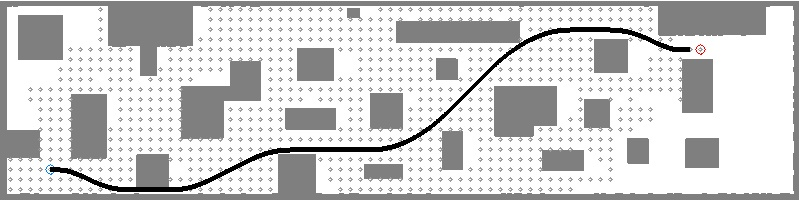
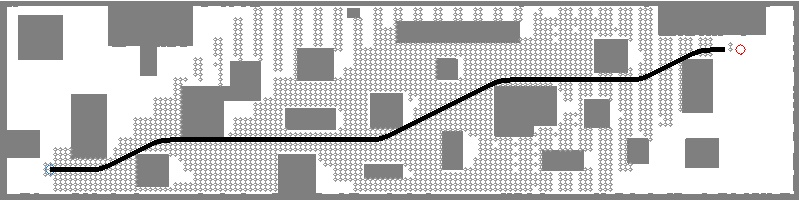
edit readme

diff --git a/motion_primitive_library/docs/index.html b/motion_primitive_library/docs/index.html
@@ -89,7 +89,7 @@ $(function() {
 <img src="output.jpg" alt="output.jpg"/>
 <div class="caption">
 Visualization</div></div>
-<p> Run following command: </p><div class="fragment"><div class="line">$ ./build/test_planner_2d ../data/corridor.yaml</div></div><!-- fragment --><p> You should see following messages if it works properly: </p><div class="fragment"><div class="line">[MPPlanner] PLANNER VERBOSE ON</div><div class="line">[MPBaseUtil] set epsilon: 1.000000</div><div class="line">[MPBaseUtil] set v_max: 1.000000</div><div class="line">[MPBaseUtil] set a_max: 1.000000</div><div class="line">[MPBaseUtil] set j_max: 1.000000</div><div class="line">[MPBaseUtil] set u_max: 1.000000</div><div class="line">[MPBaseUtil] set dt: 1.000000</div><div class="line">[MPBaseUtil] set w: 10.000000</div><div class="line">[MPBaseUtil] set max num: -1</div><div class="line">[MPBaseUtil] set effort in vel</div><div class="line">[MPBaseUtil] set tol_dis: 1.000000</div><div class="line">[MPBaseUtil] set tol_vel: 1.000000</div><div class="line">[MPBaseUtil] set tol_acc: 1.000000</div><div class="line">start pos: [2.500000, -3.500000, 0.000000], vel: [0.000000, 0.000000, 0.000000], acc: [0.000000, 0.000000, 0.000000]</div><div class="line">goal pos: [37.000000, 2.500000, 0.000000], vel: [0.000000, 0.000000, 0.000000], acc: [0.000000, 0.000000, 0.000000]</div><div class="line">MP Planner takes: 2.000000 ms</div><div class="line">MP Planner expanded states: 123</div><div class="line">Total time T: 34.000000</div><div class="line">Total J:  J(0) = 42.000000, J(1) = 0.000000, J(2) = 0.000000, J(3) = 0.000000</div></div><!-- fragment --><h2>Doxygen</h2>
+<p> Run following command: </p><div class="fragment"><div class="line">$ ./build/test_planner_2d ../data/corridor.yaml</div></div><!-- fragment --><p> You should see following messages if it works properly: </p><div class="fragment"><div class="line">[MPPlanner] PLANNER VERBOSE ON</div><div class="line">[MPBaseUtil] set epsilon: 1.000000</div><div class="line">[MPBaseUtil] set v_max: 1.000000</div><div class="line">[MPBaseUtil] set a_max: 1.000000</div><div class="line">[MPBaseUtil] set j_max: 1.000000</div><div class="line">[MPBaseUtil] set u_max: 0.500000</div><div class="line">[MPBaseUtil] set dt: 1.000000</div><div class="line">[MPBaseUtil] set w: 10.000000</div><div class="line">[MPBaseUtil] set max num: -1</div><div class="line">[MPBaseUtil] set effort in acc</div><div class="line">[MPBaseUtil] set tol_dis: 1.000000</div><div class="line">[MPBaseUtil] set tol_vel: 1.000000</div><div class="line">[MPBaseUtil] set tol_acc: 1.000000</div><div class="line">start pos: [2.500000, -3.500000, 0.000000], vel: [0.000000, 0.000000, 0.000000], acc: [0.000000, 0.000000, 0.000000]</div><div class="line">goal pos: [37.000000, 2.500000, 0.000000], vel: [0.000000, 0.000000, 0.000000], acc: [0.000000, 0.000000, 0.000000]</div><div class="line">MP Planner takes: 87.000000 ms</div><div class="line">MP Planner expanded states: 4033</div><div class="line">Total time T: 35.000000</div><div class="line">Total J:  J(0) = 36.000000, J(1) = 2.250000, J(2) = 0.000000, J(3) = 0.000000</div></div><!-- fragment --><h2>Doxygen</h2>
 <p>For more details, please refer to <a href="https://sikang.github.io/motion_primitive_library/">https://sikang.github.io/motion_primitive_library/</a></p>
 <h2>ROS Warapper</h2>
 <p>We also write the interface with ROS for planning using this library, <a href="https://github.com/sikang/mpl_ros.git"><code>mpl_ros</code></a> </p>

diff --git a/motion_primitive_library/test/test_planner_2d.cpp b/motion_primitive_library/test/test_planner_2d.cpp
@@ -39,7 +39,7 @@ int main(int argc, char ** argv){
   start.acc = Vec3f::Zero(); 
   start.jrk = Vec3f::Zero(); 
   start.use_pos = true;
-  start.use_vel = false;
+  start.use_vel = true;
   start.use_acc = false; 
   start.use_jrk = false; 
 
@@ -59,7 +59,7 @@ int main(int argc, char ** argv){
   planner->setVmax(1.0); // Set max velocity
   planner->setAmax(1.0); // Set max acceleration 
   planner->setJmax(1.0); // Set max jerk
-  planner->setUmax(1.0); // Set max control input
+  planner->setUmax(0.5); // Set max control input
   planner->setDt(1.0); // Set dt for each primitive
   planner->setW(10); // Set dt for each primitive
   planner->setMaxNum(-1); // Set maximum allowed states

diff --git a/motion_primitive_library/README.md b/motion_primitive_library/README.md
@@ -66,6 +66,7 @@ planner->setTol(1, 1, 1); // Tolerance for goal region
 bool valid = planner->plan(start, goal); // Plan from start to goal
 ```
 
+
 The results from ```MPMapUtil``` are plotted in [output.jpg](https://github.com/sikang/motion_primitive_library/blob/master/data/output.jpg). Grey dots show the expended nodes.
 ![Visualization](./data/output.jpg)
 
@@ -80,22 +81,21 @@ You should see following messages if it works properly:
 [MPBaseUtil] set v_max: 1.000000
 [MPBaseUtil] set a_max: 1.000000
 [MPBaseUtil] set j_max: 1.000000
-[MPBaseUtil] set u_max: 1.000000
+[MPBaseUtil] set u_max: 0.500000
 [MPBaseUtil] set dt: 1.000000
 [MPBaseUtil] set w: 10.000000
 [MPBaseUtil] set max num: -1
-[MPBaseUtil] set effort in vel
+[MPBaseUtil] set effort in acc
 [MPBaseUtil] set tol_dis: 1.000000
 [MPBaseUtil] set tol_vel: 1.000000
 [MPBaseUtil] set tol_acc: 1.000000
 start pos: [2.500000, -3.500000, 0.000000], vel: [0.000000, 0.000000, 0.000000], acc: [0.000000, 0.000000, 0.000000]
 goal pos: [37.000000, 2.500000, 0.000000], vel: [0.000000, 0.000000, 0.000000], acc: [0.000000, 0.000000, 0.000000]
-MP Planner takes: 2.000000 ms
-MP Planner expanded states: 123
-Total time T: 34.000000
-Total J:  J(0) = 42.000000, J(1) = 0.000000, J(2) = 0.000000, J(3) = 0.000000
+MP Planner takes: 87.000000 ms
+MP Planner expanded states: 4033
+Total time T: 35.000000
+Total J:  J(0) = 36.000000, J(1) = 2.250000, J(2) = 0.000000, J(3) = 0.000000
 ```
-
 
 ## Doxygen
 For more details, please refer to https://sikang.github.io/motion_primitive_library/
